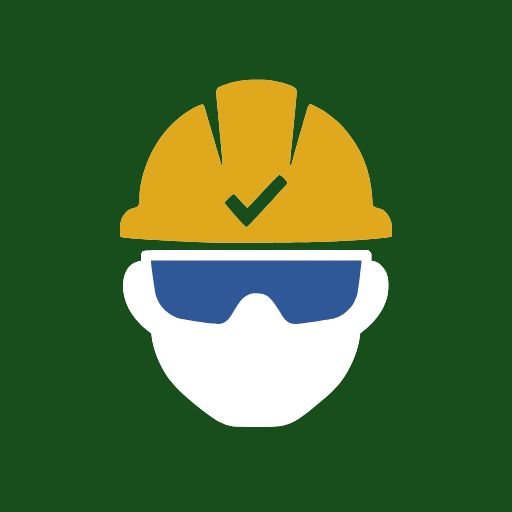
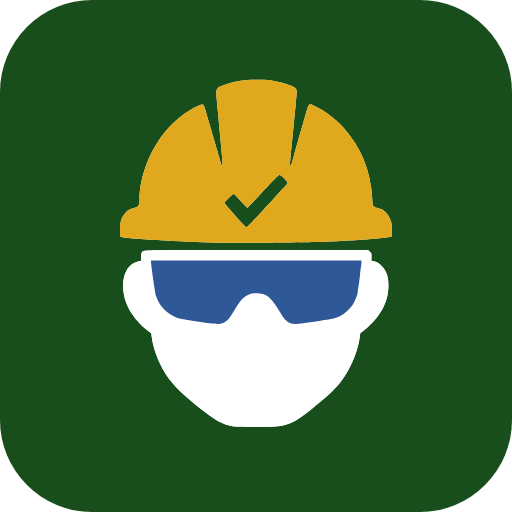
feat: icone com cantos arredondados + variante maskable p/ recorte automatico
O icone era um quadrado verde full-bleed. Em superficies que exibem o icone
'cru' (sem recorte automatico) apareciam cantos retos e quadrados.

- icon-192/512.png agora sao ARREDONDADOS (RGBA, cantos transparentes,
  clipPath rx=184 ~18% em icon-rounded.svg) → manifest purpose:any + favicon;
  ficam bonitos onde o SO nao recorta.
- icon-192/512-maskable.png: a arte QUADRADA full-bleed vira purpose:maskable,
  para launchers adaptativos (Android/Samsung) aplicarem a propria mascara
  (circulo/squircle) com o operario dentro da safe zone.
- apple-touch-icon aponta para a versao quadrada: o iOS ignora maskable e
  arredonda sozinho, e nao lida bem com transparencia.

SW precache das novas imagens + bump para v168.

Claude-Session: https://claude.ai/code/session_019RctmhaTXEMWeF3XGdvyGF

diff --git a/index.html b/index.html
@@ -46,6 +46,17 @@
 
     <link rel="manifest" href="manifest.json">
 
+    <!-- Ícones do app:
+         - apple-touch-icon (iOS): usa a versão QUADRADA full-bleed. O iOS
+           ignora `purpose:"maskable"` do manifest e SEMPRE aplica a própria
+           máscara arredondada (superelipse) por cima, além de não lidar bem com
+           transparência — então dar a ele a arte quadrada cheia evita cantos
+           pretos/serrilhados; o próprio iOS arredonda.
+         - favicon (aba/atalhos): usa a versão já arredondada (cantos
+           transparentes), pois costuma ser exibida "crua", sem recorte. -->
+    <link rel="apple-touch-icon" href="icon-512-maskable.png">
+    <link rel="icon" type="image/png" sizes="192x192" href="icon-192.png">
+
     <!-- Fontes ANTES do CSS do projeto: a folha do Google define
          `.material-symbols-rounded { font-size:24px }`. Carregando-a primeiro, o CSS
          do projeto (mesma especificidade) vence por ordem de cascata — sem isto o

diff --git a/service-worker.js b/service-worker.js
@@ -4,7 +4,7 @@
 // CONFIGURAÇÃO DO SERVICE WORKER - Definições de Cache
 // =========================================================================
 
-const CACHE_NAME = "gentehonesta-v167";
+const CACHE_NAME = "gentehonesta-v168";
 
 // CONFIGURAÇÃO DO SERVICE WORKER - Lista de Recursos Core para Cache Inicial
 const urlsToCache = [
@@ -27,6 +27,8 @@ const urlsToCache = [
   "./js/feed.js",
   "./icon-192.png",
   "./icon-512.png",
+  "./icon-192-maskable.png",
+  "./icon-512-maskable.png",
   "./icon-transparent.svg"
 ];
 

diff --git a/CLAUDE.md b/CLAUDE.md
@@ -76,10 +76,13 @@ manifest.json           — PWA manifest (start_url/scope "./"; background_color
 service-worker.js       — Network-First, cache offline, CACHE_NAME = "gentehonesta-vN"
 CNAME                   — "gentehonesta.com.br"
 .nojekyll               — Impede o Jekyll do GitHub Pages de processar os arquivos
-icon.svg                — Fonte do ícone do app (operário: capacete + óculos + rosto + check); fundo verde --p-green #184e1b (mesmo da tela inicial/loader); renderizado para os PNGs
+icon.svg                — Fonte do ícone QUADRADO full-bleed (operário: capacete + óculos + rosto + check); fundo verde --p-green #184e1b (mesmo da tela inicial/loader). Base dos PNGs maskable
+icon-rounded.svg        — Mesma arte com CANTOS ARREDONDADOS (clipPath rx=184 ≈ 18%; cantos transparentes fora do round-rect). Base dos PNGs `purpose:"any"`. Gerada a partir de icon.svg (wrap do <g> num clip-path)
 icon-transparent.svg    — Mesma arte com FUNDO TRANSPARENTE (check continua verde); usada na tela de boas-vindas sobre o verde
-icon-192.png            — Ícone PWA 192px (mesma arte); referenciado no manifest.json
-icon-512.png            — Ícone PWA 512px (mesma arte); referenciado no manifest.json
+icon-192.png            — Ícone PWA 192px ARREDONDADO (RGBA, cantos transparentes); manifest `purpose:"any"` + favicon. Mostrado "cru" onde o SO não recorta
+icon-512.png            — Ícone PWA 512px ARREDONDADO (RGBA); manifest `purpose:"any"`
+icon-192-maskable.png   — Ícone PWA 192px QUADRADO full-bleed; manifest `purpose:"maskable"` (launchers adaptativos aplicam a própria máscara: círculo/squircle)
+icon-512-maskable.png   — Ícone PWA 512px QUADRADO full-bleed; manifest `purpose:"maskable"` + apple-touch-icon (iOS ignora maskable e arredonda sozinho — precisa da arte quadrada cheia, sem transparência)
 
 css/
   base.css              — Design tokens (:root), roteamento de telas, utilitários, animações
@@ -391,7 +394,7 @@ o ícone fica automaticamente centralizado com o texto. `.btn--text .material-sy
 
 **`text-decoration` não propaga de forma confiável para filhos de um flex container:** `.pro-card__meta-item--inactive` (rodapé do card de profissional, `proFooterHTML()` em `feed.js`) risca só o texto do método de pagamento indisponível, nunca o ícone — mas o `text-decoration: line-through` está no span do RÓTULO (`.pro-card__meta-item__label`), não em `.pro-card__meta-item--inactive` diretamente. Colocar o risco no item (que é `display: inline-flex`) e tentar excluir o ícone com `text-decoration: none` nele NÃO funciona no Chrome: como `.pro-card__meta-item` é um flex container, o ícone (item flex) é "blockificado" e o navegador ignora esse `none`, riscando o ícone mesmo assim. A solução é aplicar o risco direto no span do texto, nunca herdado de um ancestral flex.
 
-**Service Worker:** incrementar `CACHE_NAME` em `service-worker.js` a cada deploy com mudanças de cache. Versão atual: `gentehonesta-v167`. Os arquivos CSS e JS são atualizados automaticamente pelo Network-First; o incremento serve para forçar limpeza de caches antigos.
+**Service Worker:** incrementar `CACHE_NAME` em `service-worker.js` a cada deploy com mudanças de cache. Versão atual: `gentehonesta-v168`. Os arquivos CSS e JS são atualizados automaticamente pelo Network-First; o incremento serve para forçar limpeza de caches antigos.
 
 **Seção "Detalhes profissionais" (`#panel-prodetails`):** todas as subseções seguem o mesmo padrão visual
 (sem cards/fundos individuais) — "O que você faz?", "Suas Habilidades" e "Padrão de Serviços" são
